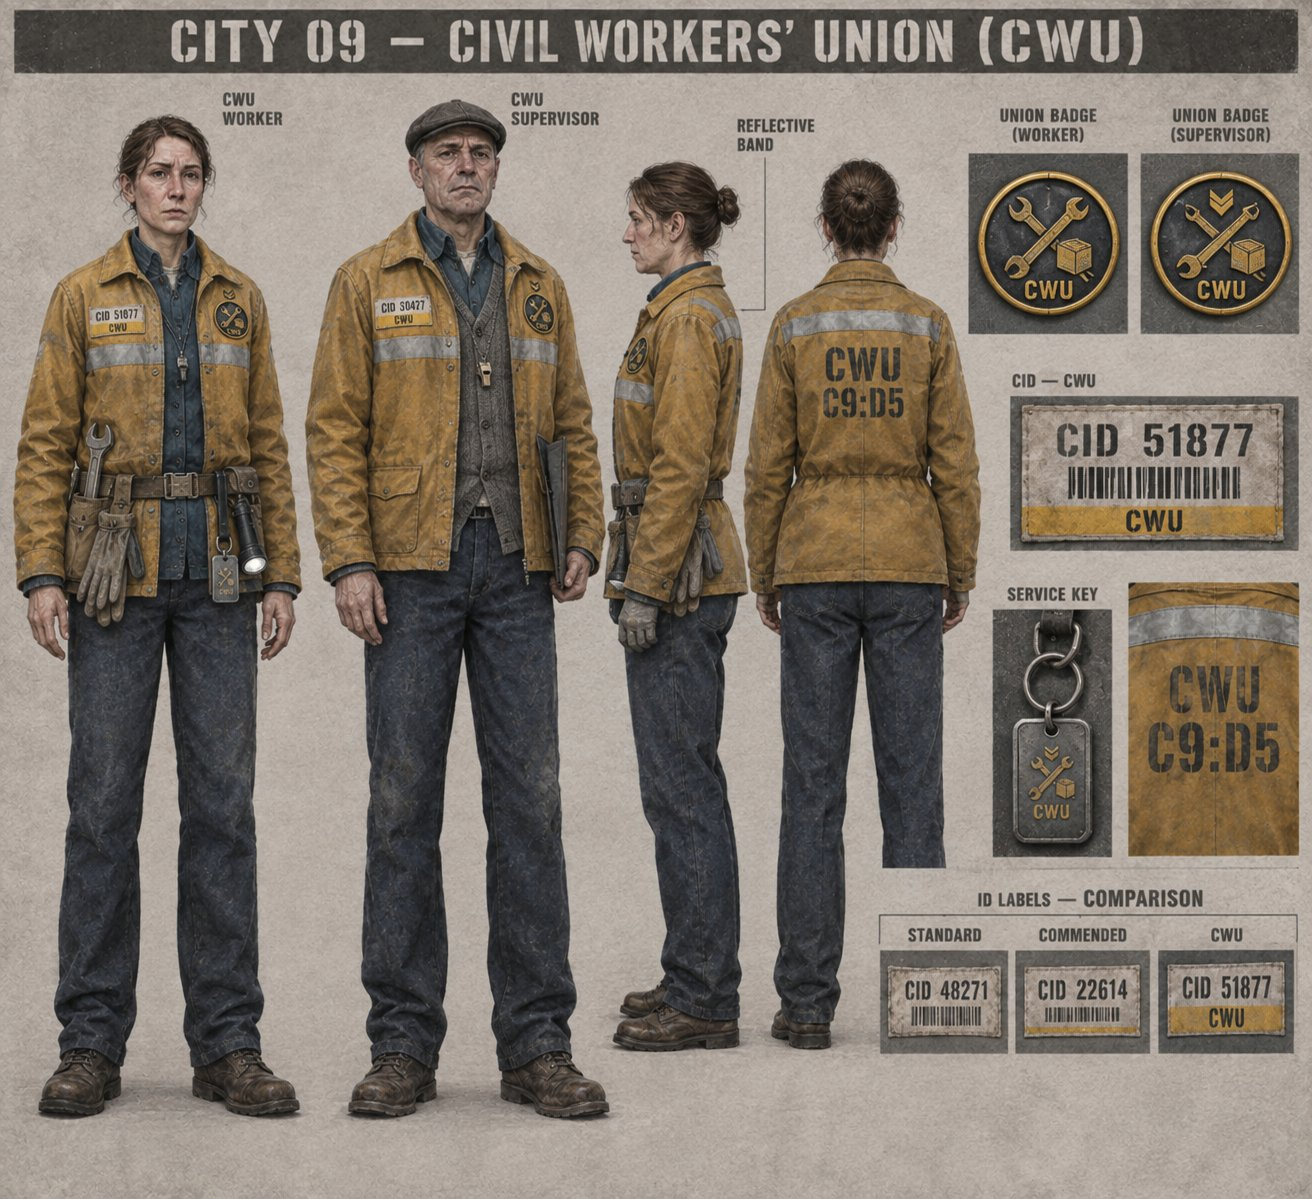
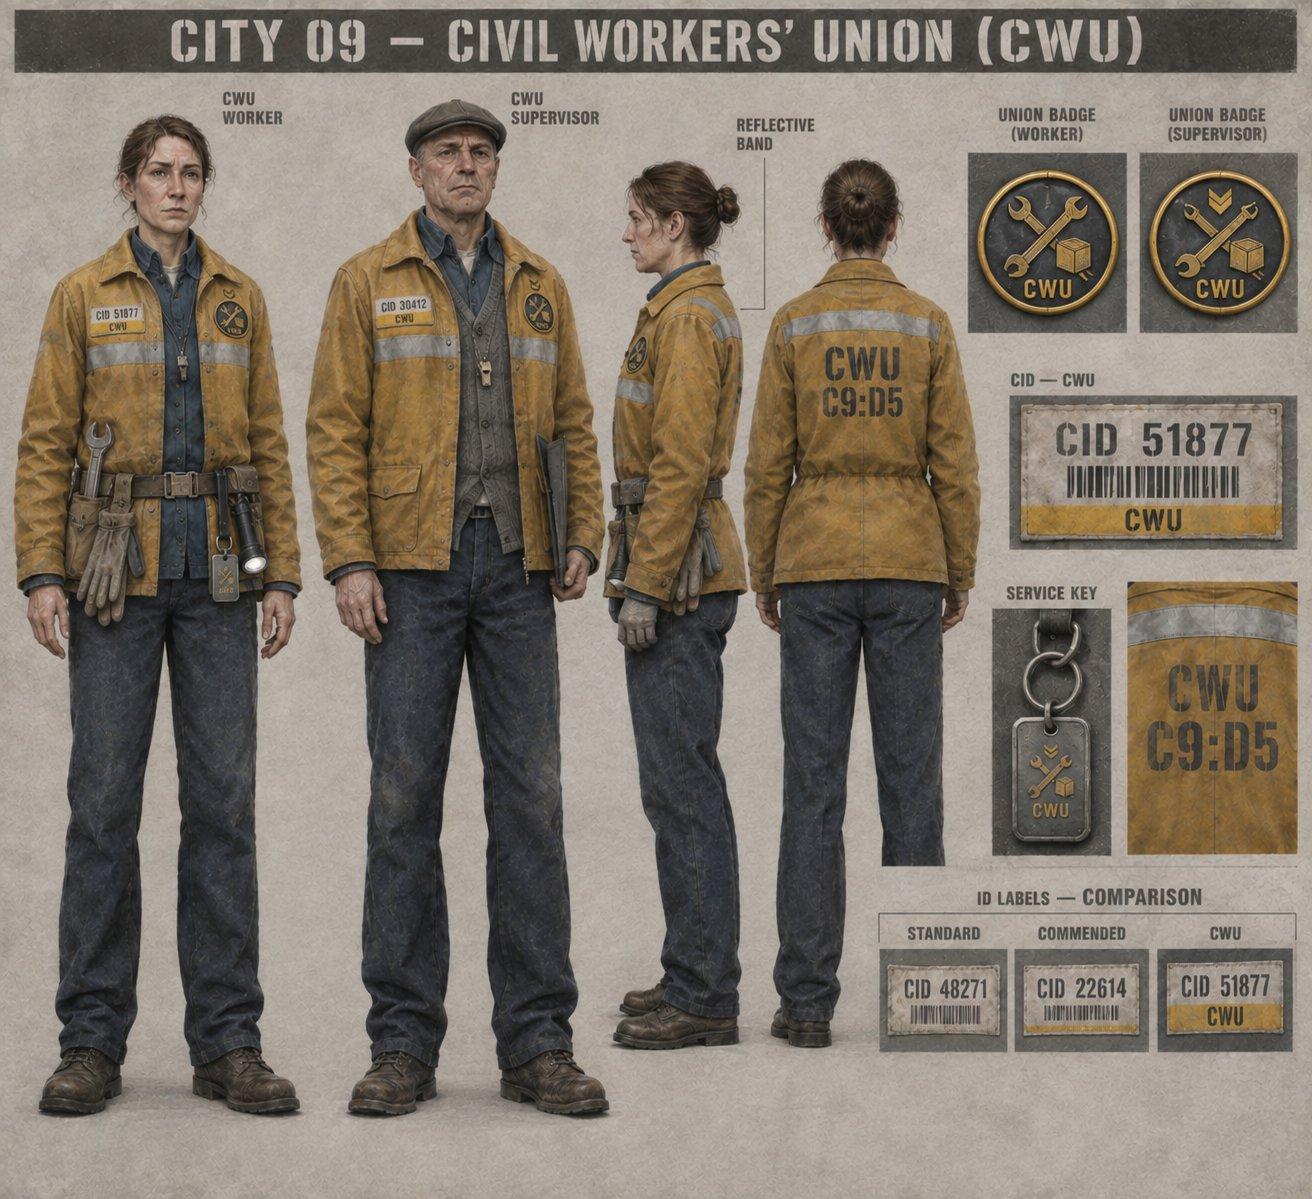
Replace CWU sheet with corrected supervisor CID
Claude-Session: https://claude.ai/code/session_01FPxW8sjExYByq8Hjg1f5Jc

diff --git a/sw.js b/sw.js
@@ -1,6 +1,6 @@
 /* Service worker: makes the game installable and playable offline.
    Bump VERSION whenever files change so players get the update. */
-const VERSION = 'c9-v22';
+const VERSION = 'c9-v23';
 const SHELL = [
   './',
   './index.html',
